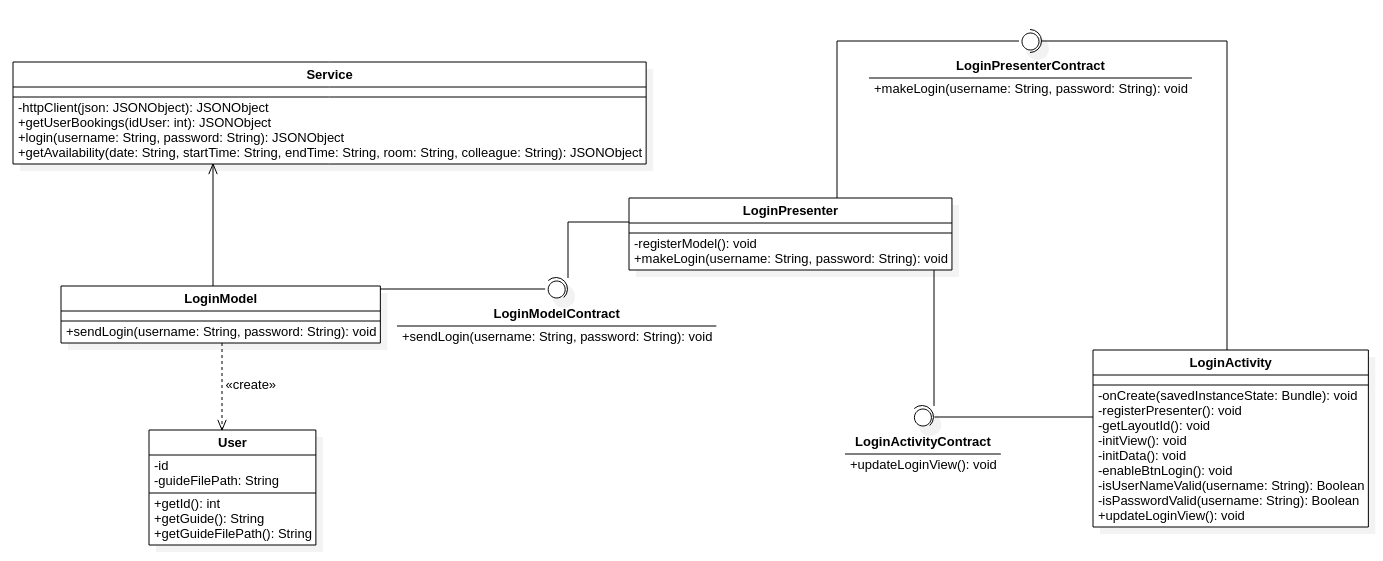
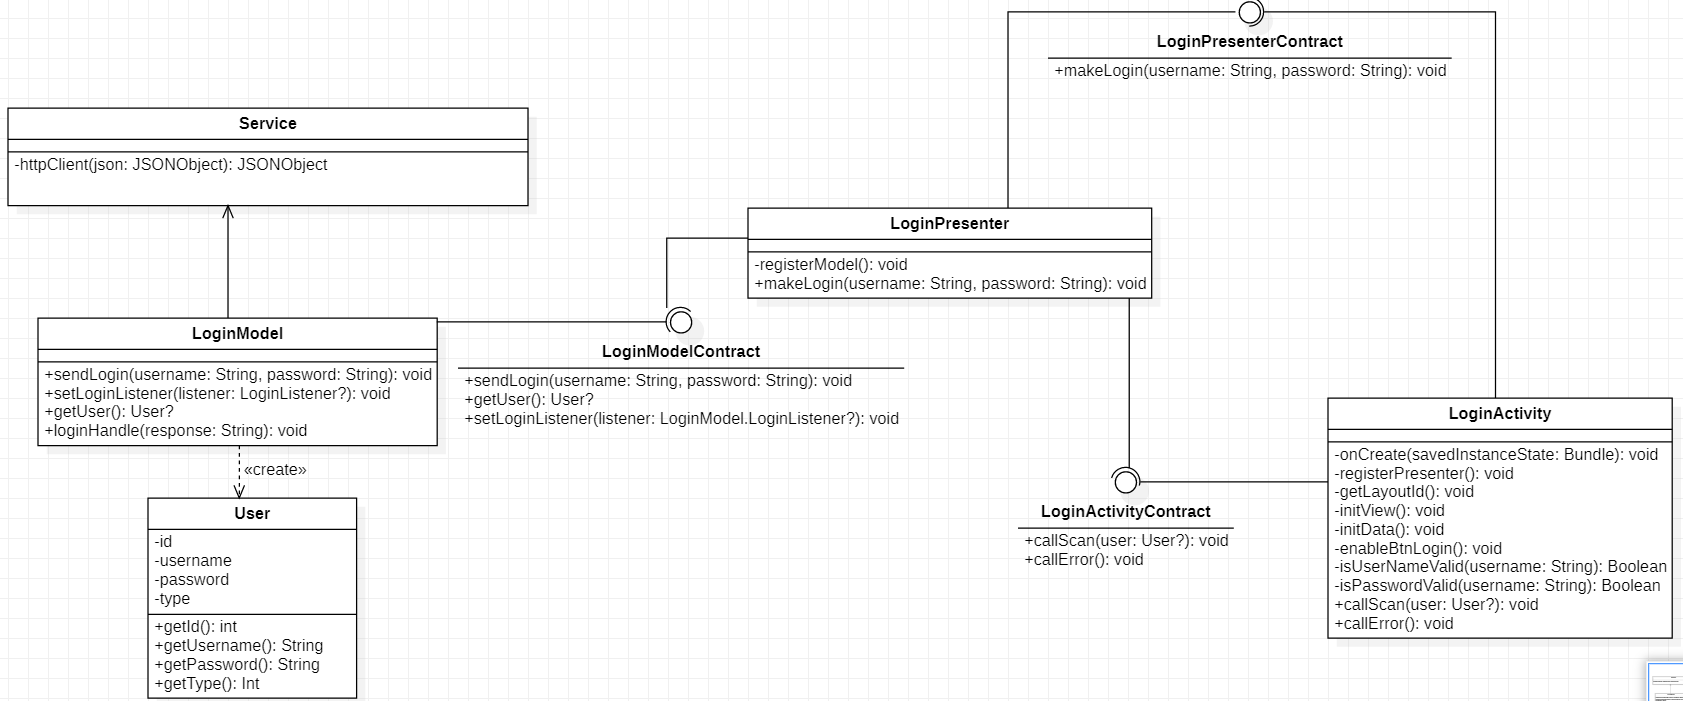
inizio LoginClass

Changed region(s): [[0.0, 0.0, 0.9017, 1.0], [0.5907, 0.5455, 1.0, 1.0]]

diff --git a/esterni/ManualeManutentore/res/sections/Apputenti.tex b/esterni/ManualeManutentore/res/sections/Apputenti.tex
@@ -244,9 +244,10 @@ La classe LoginActivity offre i seguenti metodi:
 	\item \textbf{initView(): void}: mappa l'Activity associandole le variabili: username, password, loginBtn, errore;
 	\item \textbf{initData(): void}: definisce l'aggiornamento della vista secondo gli input dell'utente ;
 	\item \textbf{enableBtnLogin(): void}: abilita il bottone di Login;
-	\item \textbf{isUserNameValid(in username:String): Boolean}: verifica della conformità dell'username;
-	\item \textbf{isPasswordValid(in username:String): Boolean}: verifica della conformità della password;
-	\item \textbf{updateLoginView(): void}: aggiorna la vista dopo la verifica delle credenziali.
+	\item \textbf{isUserNameValid(username:String): Boolean}: verifica della conformità dell'username;
+	\item \textbf{isPasswordValid(username:String): Boolean}: verifica della conformità della password;
+	\item \textbf{callScan(user:User?): void}: aggiorna la vista dopo la verifica delle credenziali se sono corrette.
+	\item \textbf{callError(): void}: aggiorna la vista dopo la verifica delle credenziali se risultano errate.
 \end{itemize}
 
 La classe LoginPresenter offre i seguenti metodi:
@@ -258,16 +259,17 @@ La classe LoginPresenter offre i seguenti metodi:
 La classe LoginModel offre i seguenti metodi:
 \begin{itemize}
 	\item \textbf{sendLogin(username: String, password: String): void}: Si occupa di richiedere al service di verificare le credenziali fornite dall'utente. 
+	\item \textbf{sendLogin(username: String, password: String): void}: Si occupa di richiedere al service di verificare le credenziali fornite dall'utente. 
+	\item \textbf{sendLogin(username: String, password: String): void}: Si occupa di richiedere al service di verificare le credenziali fornite dall'utente. \\
+	\item \textbf{sendLogin(username: String, password: String): void}: Si occupa di richiedere al service di verificare le credenziali fornite dall'utente. 
 \end{itemize}
 
 La classe Service offre i seguenti metodi:
 \begin{itemize}
-	\item \textbf{login(in username:String, in password:String): JSONObject}: Si occupa di trasformare in un JSONObject username e password così poi da ottenere l'id dello user;
-	\item \textbf{httpClient(json:JSONObject): JSONObject}: Viene fatta la richiesta al backend per verificare le credenziali fornite dall'utente.
-	
+		\item \textbf{httpClient(json:JSONObject): JSONObject}: Viene fatta la richiesta al backend per verificare le credenziali fornite dall'utente.
 \end{itemize}
 
-\subsubsection{Main}
+\subsubsection{Scan}
 \begin{figure}[H]
 	\centering
 	\includegraphics[width=16cm]{res/images/apputenti-MainClass.png}
